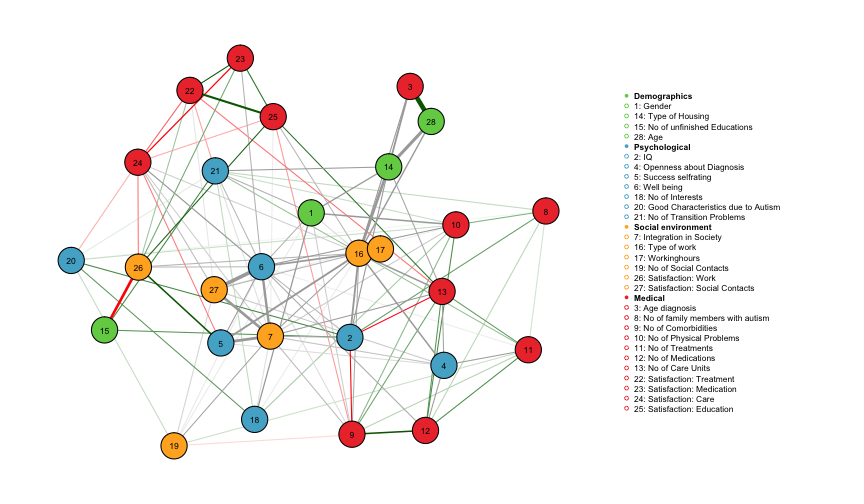
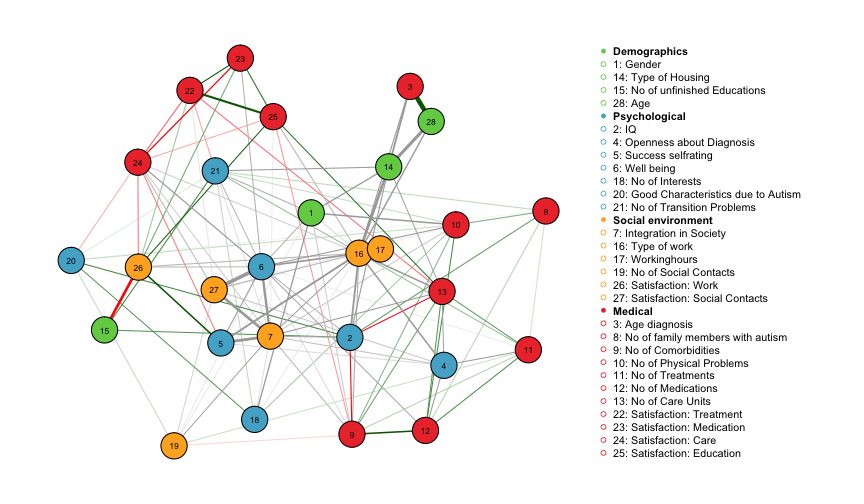
update old post3

Changed region(s): [[0.6875, 0.0893, 0.9375, 0.9226]]

diff --git a/_posts/2015-11-30-Estimation-of-mixed-graphical-models.md b/_posts/2015-11-30-Estimation-of-mixed-graphical-models.md
@@ -112,7 +112,7 @@ qgraph(fit_ADS$pairwise$wadj,
        nodeNames = autism_data_large$colnames,
        color = autism_data_large$groups_color, 
        groups = autism_data_large$groups_list,
-       legend.mode="style2", legend.cex=.35, 
+       legend.mode="style2", legend.cex=.45, 
        vsize = 3.5, esize = 15)
 {% endhighlight %}
 
